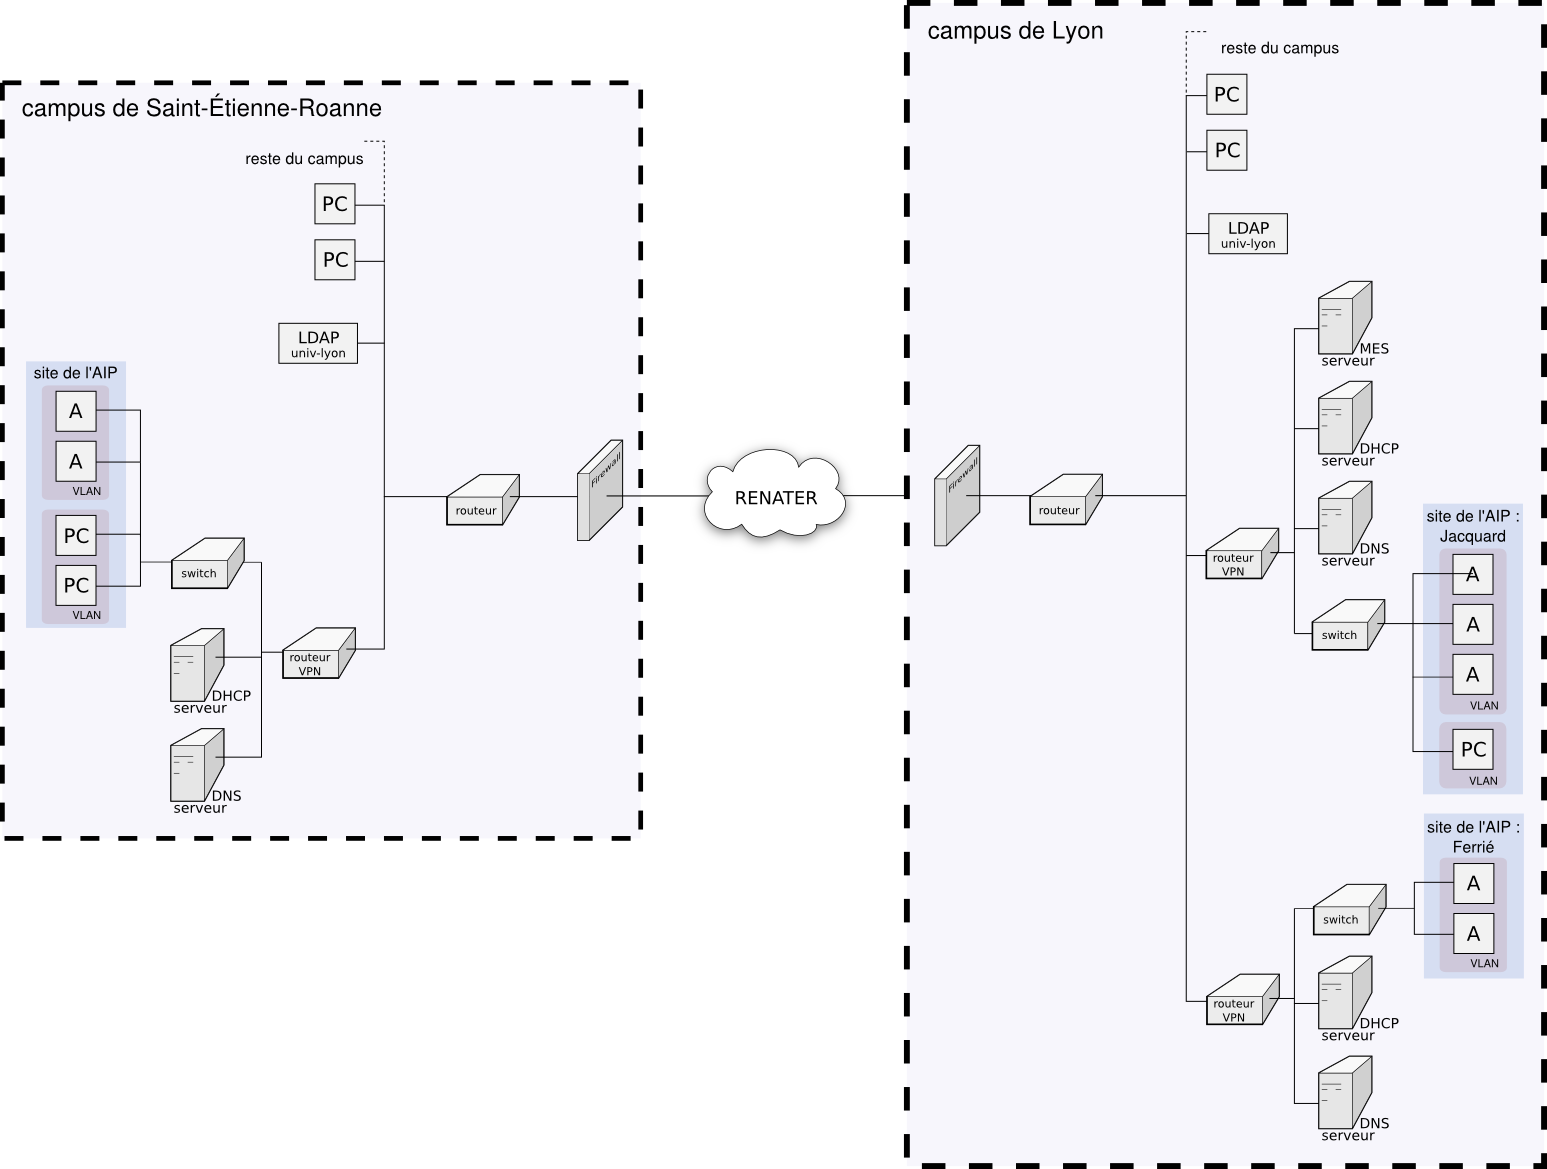
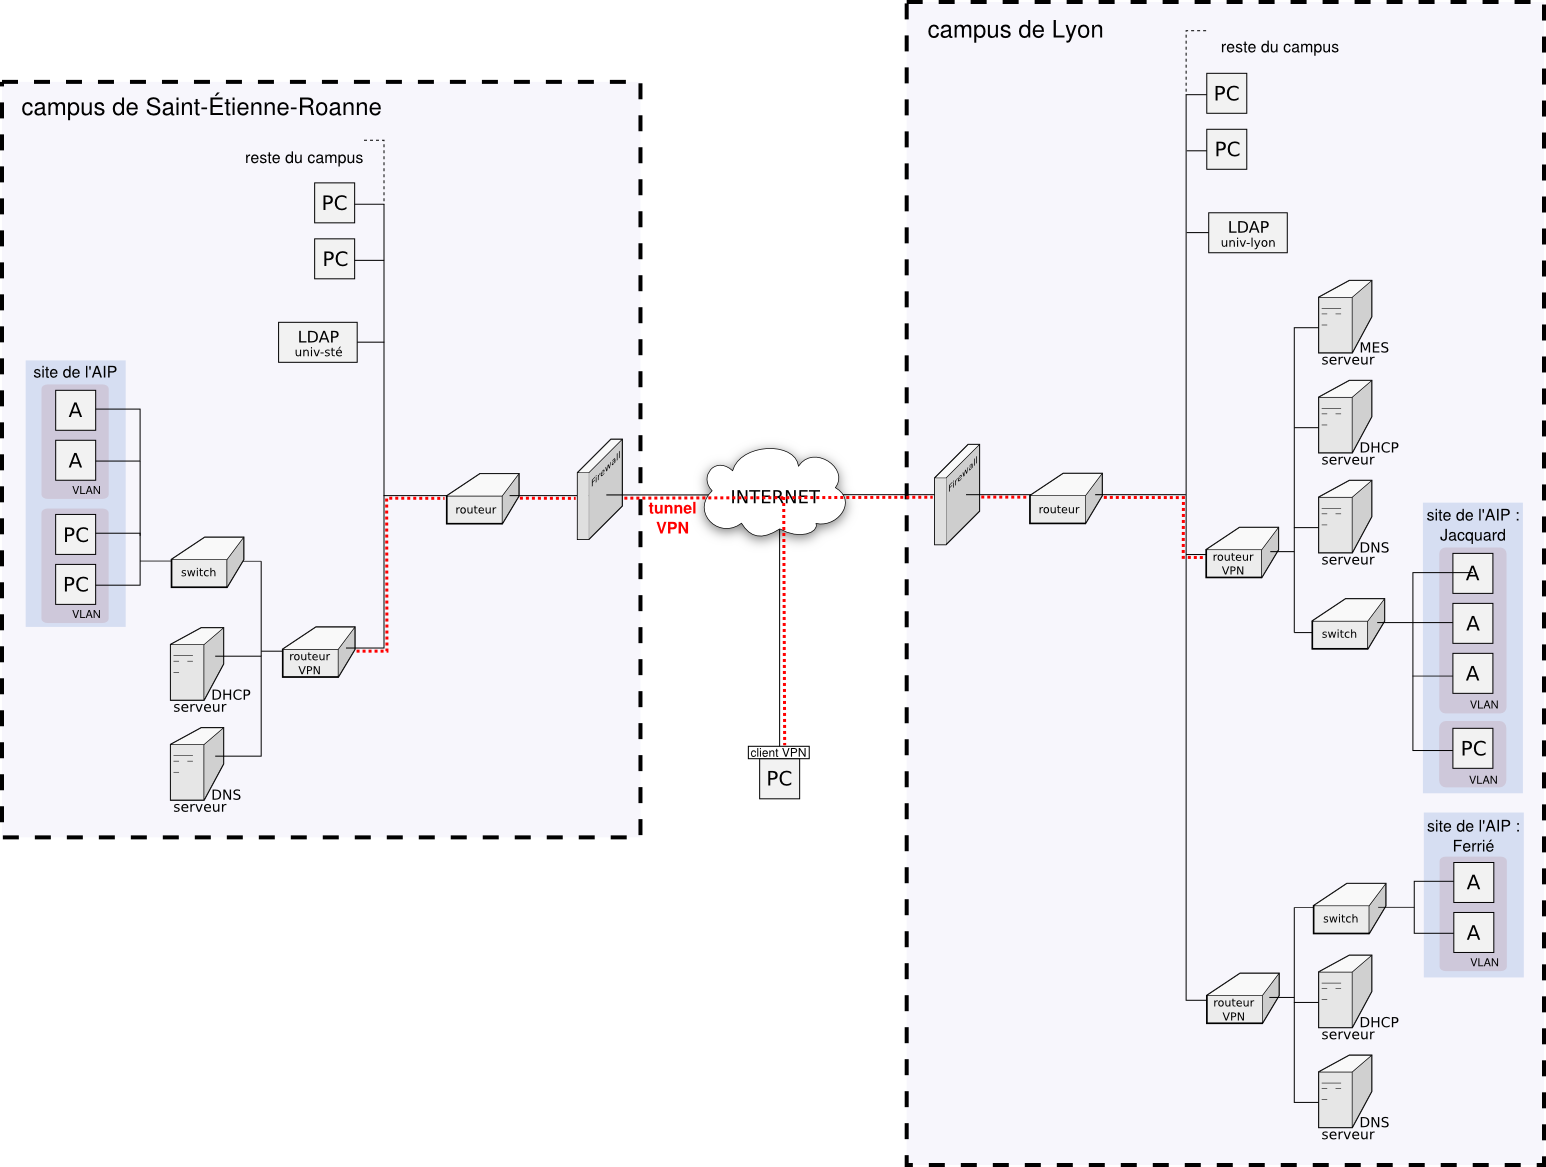
youpiloutre schéma archi globale terminé et inclus dans dossier

diff --git a/Etude_Architecture.tex b/Etude_Architecture.tex
@@ -50,11 +50,9 @@
 	\paragraph*{} % Authentification et Annuaires LDAP
 	L'authentification sur site se fera au moyen d'un groupe d'utilisateur répliqué sur tous les annuaires LDAP des différents campus. Ainsi, les utilisateurs mobiles d'un site AIP à l'autre pourront s'authentifier où qu'ils soient. L'authentification depuis l'extérieur pourra se faire grâce à un client VPN déployé sur une machine distante, avec une politique d'authentification par certificat. 
 	
-	\paragraph*{} % Explication du schéma
-	Sur le schéma ci-dessous, on peut voir en gris les différents éléments qui constituent le réseau actuellement. Les nouveaux composants sont représentés en vert : deux switchs, un routeur VPN, un serveur DNS et un serveur DHCP au niveau de chaque site. Le tunnel VPN ainsi créé est représenté en bleu. 
-	
 	\paragraph*{} % Schéma
-	TODO : scanner le schéma de la séance 1 et l'insérer ici =D 
+	Sur le schéma ci-dessous, on peut voir les différents éléments qui constitueront le réseau. Le tunnel VPN ainsi créé est représenté en rouge. \\
+	\includegraphics[width=\linewidth]{schema_archi.png}
 
 	
 \section{Plans de nommage et d'adressage}
